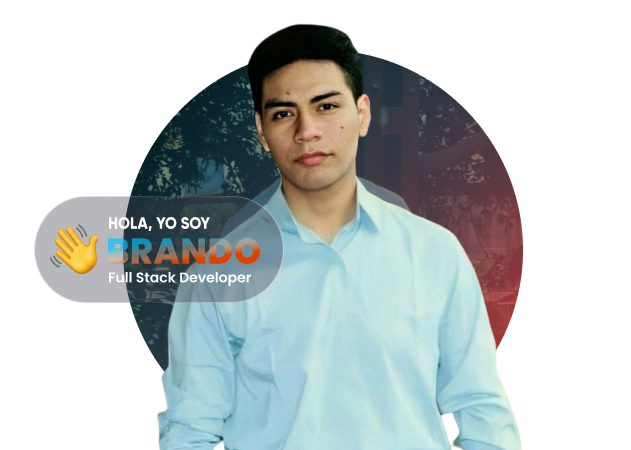
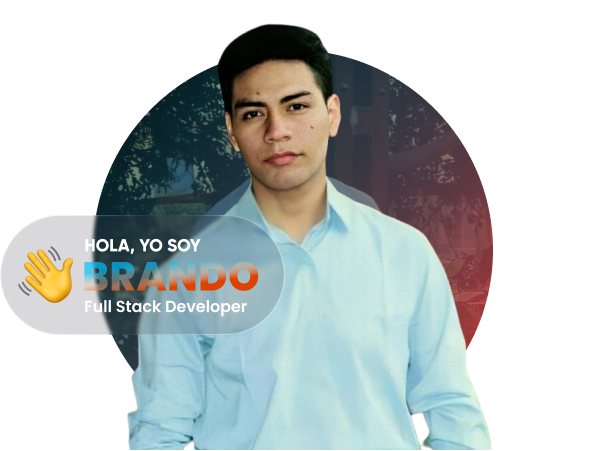
subo cambios

diff --git a/index.html b/index.html
@@ -78,20 +78,11 @@
                     </p>
                 </div>
             </div> -->
-            <img class="btn-hidden flex img-header mx-auto" src="./assets/img-profile-mb.png" alt="">
+            <img class="hidden flex img-header mx-auto" src="./assets/img-profile-mb.png" alt="">
             <img class="dk-hero-hidden flex img-header mx-auto" src="./assets/img-profile.png" alt="dk-hero">
-            <img class="dk-hero-hidden" src="./assets/img-bg/stars-desktop.webp" alt="" style="
-                position: absolute;
-                top: 100px;
-                left: 350px;
-                object-fit: cover;
-                object-position: center center;
-                opacity: 0.2;
-                z-index: -1;
-                width: 65%;"
-            >
+            <img class="img-bg" src="./assets/img-bg/stars-desktop.webp" alt="">
             <div class="ctn-bash">
-                <!-- <h3 class="btn-hidden text-white text-xl pd-mb-bottom">what i'am currently doing</h3> -->
+                <!-- <h3 class="btn-hidden text-white text-xl pd-mb-bottom"> what i'am currently doing </h3> -->
                 <div class="bash-1 bash-linea flex items-center text-white ">
                     <!-- <span class="circl"></span> -->
                     <div>

diff --git a/responsibe.css b/responsibe.css
@@ -45,7 +45,6 @@
   .hidden {
       display: none;
   }
- 
   body::after {
       content: "";
       width: 100%;
@@ -84,6 +83,16 @@
       padding-bottom: 0px;
       box-shadow: none;
   }
+  .img-bg{
+    position: absolute;
+    top: 100px;
+    left: 350px;
+    object-fit: cover;
+    object-position: center center;
+    opacity: 0.2;
+    z-index: -1;
+    width: 65%;
+  }
   .btn {
       padding-top: 12px;
       padding-bottom: 12px;
@@ -100,9 +109,6 @@
   }
   .hg-img-hero{
       width:608px;
-  }
-  .btn-hidden {
-      display: none;
   }
   .nav-hidden {
       display: block;

diff --git a/style.css b/style.css
@@ -14,6 +14,15 @@
             position: relative;
             z-index: 2;
         }
+        .img-bg{
+            position: absolute;
+            top: 120px;
+            left: 0px;
+            object-fit: cover;
+            object-position: center center;
+            opacity: 0.2;
+            z-index: -1;
+          }
         .h-img-logo {
             height: 27px;
         }        
